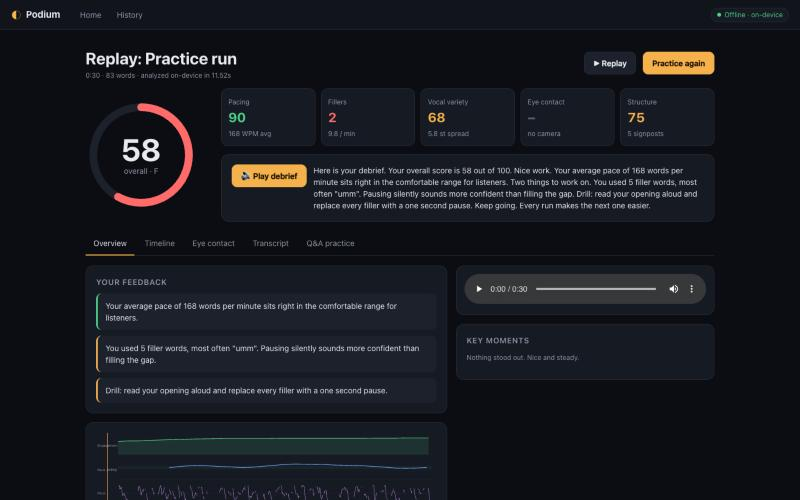
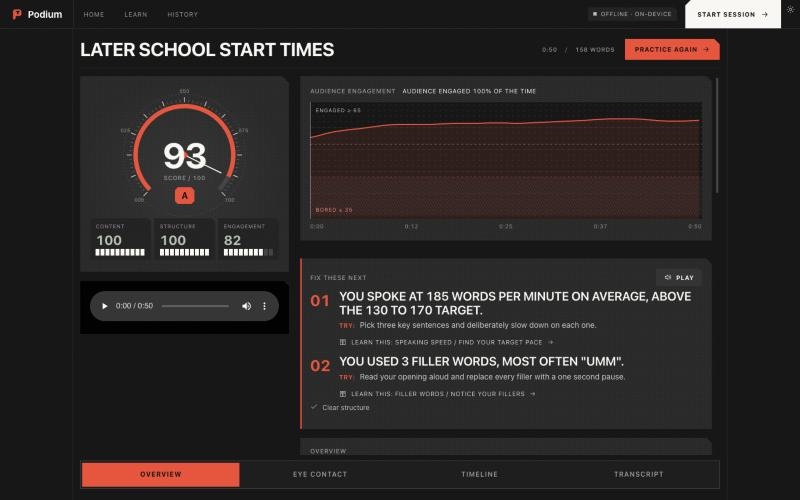
README: new screenshots of the current app (live, home, debrief, timeline, Learn, Play)

diff --git a/README.md b/README.md
@@ -13,9 +13,15 @@ blocks outbound network requests in code, and a test checks it.
 
 ![Live session with the reactive audience](docs/img/live.jpg)
 
-| Debrief | Timeline |
+| Home | Debrief |
 |---|---|
-| ![Debrief](docs/img/debrief.jpg) | ![Timeline](docs/img/timeline.jpg) |
+| ![Home](docs/img/home.jpg) | ![Debrief](docs/img/debrief.jpg) |
+
+| Timeline | Learn |
+|---|---|
+| ![Timeline](docs/img/timeline.jpg) | ![Learn skill tree](docs/img/learn.jpg) |
+
+![Play: quick games, Pace Runner, boss fights and the Locker](docs/img/play.jpg)
 
 Built for the TSA Software Development event. The full design is in
 [`docs/TECHNICAL_SPEC.md`](docs/TECHNICAL_SPEC.md), and the Learn games are described in
